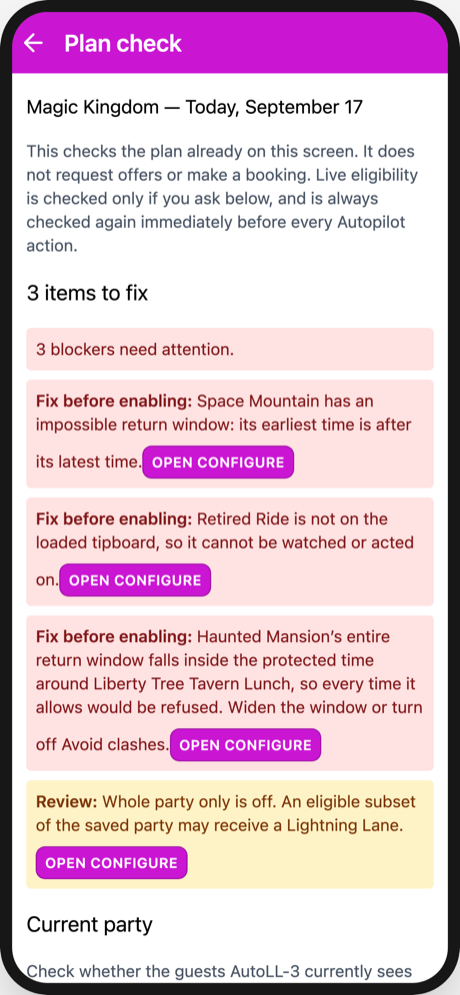
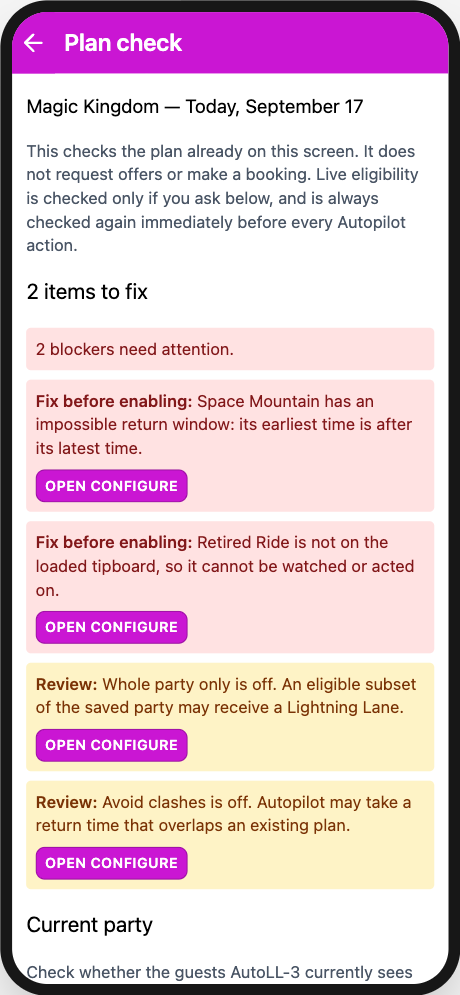
Plan Check's verb, and each button on a line of its own (1.8.2) (#93)
The two rough edges the guide listed as of 1.8.1, both fixed in
AutoLL-5 by its usability slice 1 and re-made here as the owner asked.
With exactly one blocker the bar read "1 blocker need attention."; it
reads "1 blocker needs attention." Each item's button, Open Configure
or Refresh LL list, sat inline at the end of the item's sentence, so
the text wrapped around it; it now sits on a line of its own. The code
is the same as AutoLL-5's.

The guide lists no rough edges now, and the Plan Check screenshot is
retaken; its caption says what the harness now shows, two blockers and
two review items, since Avoid clashes is off by default there.

diff --git a/docs/user-guide.html b/docs/user-guide.html
@@ -1016,10 +1016,10 @@
     <section id="plan-check">
       <h3><span class="num">06</span> Check it — Plan Check</h3>
       <figure class="float">
-        <img src="user-guide/plan-check.png" alt="Plan Check showing three blockers: an impossible return window, a target not on the tip board, and a window swallowed by lunch's protected time." loading="lazy">
+        <img src="user-guide/plan-check.png" alt="Plan Check with two blockers, an impossible return window and a target not on the tip board, and two review items: Whole party only is off, and Avoid clashes is off." loading="lazy">
         <figcaption>
-          Three blockers and one review item. “Retired Ride” is the harness's
-          fake data.
+          Two blockers and two review items, each with its button on a line of
+          its own. “Retired Ride” is the harness's fake data.
         </figcaption>
       </figure>
       <p>
@@ -2213,12 +2213,10 @@
         well, or it may start empty next time.
       </p>
       <p>
-        <strong>Rough edges, as of 1.8.1.</strong> Known and not fixed yet:
+        <strong>Rough edges, as of 1.8.2.</strong> None known beyond what
+        <a href="https://github.com/mbs1234/AutoLL-3/blob/main/docs/FUTURE.md">docs/FUTURE.md</a>
+        lists, with what each would cost to fix.
       </p>
-      <ul>
-        <li>With exactly one blocker, Plan Check's bar reads “1 blocker need attention.”</li>
-        <li>Plan Check's <span class="ui">Open Configure</span> buttons sit inside the sentence, so its text wraps around them.</li>
-      </ul>
     </section>
 
     <!-- ================= REFERENCE ================= -->

diff --git a/src/components/ll/screens/PlanCheck.tsx b/src/components/ll/screens/PlanCheck.tsx
@@ -222,7 +222,9 @@ export default function PlanCheck({
         }`}
       >
         {blockers
-          ? `${blockers} blocker${blockers === 1 ? '' : 's'} need attention.`
+          ? blockers === 1
+            ? '1 blocker needs attention.'
+            : `${blockers} blockers need attention.`
           : reviews
             ? `${reviews} item${reviews === 1 ? '' : 's'} to review.`
             : 'Ready to run within the current safeguards.'}
@@ -245,14 +247,15 @@ export default function PlanCheck({
             <span className="font-semibold">{LABEL[item.level]}:</span>{' '}
             {item.text}
             {item.subject && (
-              <Button
-                type="small"
-                className="mt-2"
-                disabled={item.subject.kind === 'tipboard' && refreshing}
-                onClick={() => actOn(item)}
-              >
-                {tipboardLabel(item.subject.kind, refreshing)}
-              </Button>
+              <div className="mt-2">
+                <Button
+                  type="small"
+                  disabled={item.subject.kind === 'tipboard' && refreshing}
+                  onClick={() => actOn(item)}
+                >
+                  {tipboardLabel(item.subject.kind, refreshing)}
+                </Button>
+              </div>
             )}
           </li>
         ))}

diff --git a/src/components/ll/screens/PlanCheck.test.tsx b/src/components/ll/screens/PlanCheck.test.tsx
@@ -130,6 +130,19 @@ describe('PlanCheck', () => {
     expect(onReviewed).toHaveBeenCalledWith(
       expect.objectContaining({ blockers: 1 })
     );
+    // It read "1 blocker need attention."
+    expect(screen.getByText('1 blocker needs attention.')).toBeVisible();
+  });
+
+  // Inline, the button sat inside the sentence and the text wrapped around it.
+  it("puts each item's button on a line of its own", async () => {
+    const { onReviewed } = setup({ experiences: [jc] });
+    await waitFor(() => expect(onReviewed).toHaveBeenCalledTimes(1));
+    const button = screen.getAllByRole('button', {
+      name: 'Open Configure',
+    })[0]!;
+    expect(button.parentElement?.tagName).toBe('DIV');
+    expect(button.parentElement).not.toBe(button.closest('li'));
   });
 
   // The screen's central safety claim, and the one thing no unit test of the

diff --git a/docs/USER-GUIDE.md b/docs/USER-GUIDE.md
@@ -277,10 +277,9 @@ offer and cannot spend an entitlement.
 > Lightning Lane exists. Eligibility, inventory and the offer's real return time
 > are checked again immediately before every action.
 
-> Two rough edges: with exactly one blocker the bar reads "1 blocker need
-> attention." (the verb is not pluralised), and, as the screenshot shows, the
-> **Open Configure** buttons sit inline inside the sentence, so text wraps around
-> them. "Retired Ride" is the harness's fake data, not a real attraction.
+> "Retired Ride" is the harness's fake data, not a real attraction. The harness
+> also leaves Avoid clashes off, so a window inside lunch's protected time is
+> not a blocker here; Plan Check says instead that clashes are allowed.
 
 ## 7. See it — the Timeline
 
@@ -1033,14 +1032,8 @@ included, stay as they are. Reload the page afterwards.
 **Between trips, open AutoLL-3 at least once a week** as well, or it may start
 empty next time.
 
-**Rough edges, as of 1.8.1.** Known and not fixed yet:
-
-- With exactly one blocker, Plan Check's bar reads "1 blocker need attention."
-- Plan Check's **Open Configure** buttons sit inside the sentence, so its text
-  wraps around them.
-
-Everything else outstanding is in [docs/FUTURE.md](FUTURE.md), with what each
-would cost to fix.
+**Rough edges, as of 1.8.2.** None known beyond what
+[docs/FUTURE.md](FUTURE.md) lists, with what each would cost to fix.
 
 ---
 

diff --git a/ROADMAP.md b/ROADMAP.md
@@ -1126,6 +1126,17 @@ required.
 Kept as records of the defect and the acceptance criteria each one closed.
 Their line citations describe the tree before the fix.
 
+### 34. Plan Check's verb and its buttons — _completed in 1.8.2_
+
+The two rough edges the guide listed as of 1.8.1, both fixed in AutoLL-5 by
+its usability slice 1 and re-made here as the owner asked (2026-10-01).
+
+- **"1 blocker needs attention."** With exactly one blocker the bar read "1
+  blocker need attention."
+- **Each item's button on a line of its own.** Open Configure and Refresh LL
+  list sat inline at the end of the item's sentence, so the text wrapped
+  around them.
+
 ### 33. Undo every removal, and a card opened from elsewhere in view — _completed in 1.8.1_
 
 `FUTURE.md` §2.3 and §2.4: the two rough edges AutoLL-5 fixed alone (usability
